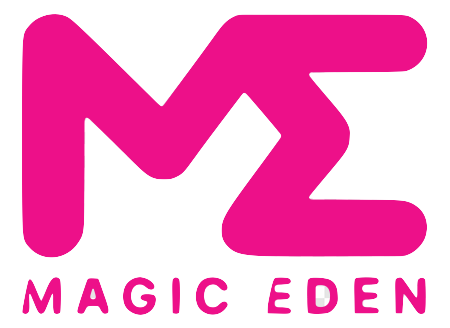
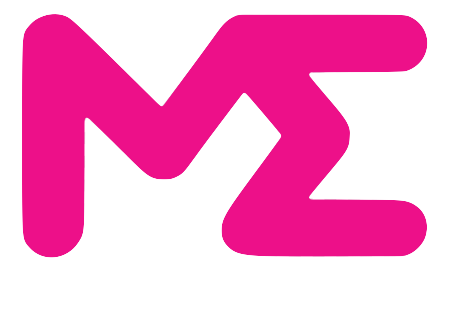
first commit

diff --git a/src/app/components/navbar.tsx b/src/app/components/navbar.tsx
@@ -20,13 +20,22 @@ export default function Navbar() {
 
 
   return (
-    <div className="mb-8 flex justify-between items-center">
+    <div className="my-8 flex justify-between items-center">
       <div className="w-12 h-12 bg-[#F8FFE8] border-4 border-[#000] rounded-xl shadow-[0_4px_0_#000] overflow-hidden">
         <Link href={'https://uwutter.com/'} target="_blank">
           <img src="/logo.png" alt="Uwu_Logo" className=" w-full h-full" />
         </Link>
         </div>
-        <ConnectBtn />
+        <div className="flex gap-4 items-center">
+        <div className="w-12 h-12 bg-[#F8FFE8] border-4 border-[#000] rounded-xl shadow-[0_4px_0_#000] overflow-hidden p-2">
+          <Link href={'https://magiceden.io/collections/abstract/0x94f6791eAd2E9690f142BD9Df4D2677382edAB0E/'} target="_blank">
+            <img src="/magic-eden.png" alt="Uwu_Logo" className=" w-full h-full" />
+          </Link>
+          </div>
+          <ConnectBtn />
+        </div>
+        {/* <ConnectBtn /> */}
+
     </div>
   )
 }
@@ -61,7 +70,7 @@ export const ConnectBtn = () => {
             {(() => {
               if (!connected) {
                 return (
-                  <button className="rounded-[100px] py-4 px-6 bg-[#0F2C23] text-white mt-8 border-4 border-[#000] shadow-[0_4px_0_#000] 
+                  <button className="rounded-[100px] py-4 px-6 bg-[#0F2C23] text-white border-4 border-[#000] shadow-[0_4px_0_#000] 
                   transition-all duration-150 hover:shadow-[0_8px_0_#000] hover:-translate-y-1 
                   active:shadow-[0_0_0_#000] active:translate-y-2" onClick={openConnectModal} type="button">
                     Connect your Wallet
@@ -71,7 +80,7 @@ export const ConnectBtn = () => {
 
               if (chain.unsupported) {
                 return (
-                  <button className="rounded-[100px] py-4 px-6 bg-[#0F2C23] text-white mt-8 border-4 border-[#000] shadow-[0_4px_0_#000] 
+                  <button className="rounded-[100px] py-4 px-6 bg-[#0F2C23] text-white border-4 border-[#000] shadow-[0_4px_0_#000] 
                   transition-all duration-150 hover:shadow-[0_8px_0_#000] hover:-translate-y-1 
                   active:shadow-[0_0_0_#000] active:translate-y-2" onClick={openChainModal} type="button">
                     Wrong network
@@ -80,7 +89,7 @@ export const ConnectBtn = () => {
               }
 
               return (
-                <button onClick={() => disconnect()} className="rounded-[100px] py-4 px-6 bg-[#F8FFE8] text-[#0F2C23] mt-8 border-4 border-[#000] shadow-[0_4px_0_#000] 
+                <button onClick={() => disconnect()} className="text-sm  rounded-[100px] py-4 px-6 bg-[#F8FFE8] text-[#0F2C23] border-4 border-[#000] shadow-[0_4px_0_#000] 
                 transition-all duration-150 hover:shadow-[0_8px_0_#000] hover:-translate-y-1 
                 active:shadow-[0_0_0_#000] active:translate-y-2">
                     Disconnect: {account.displayName}
